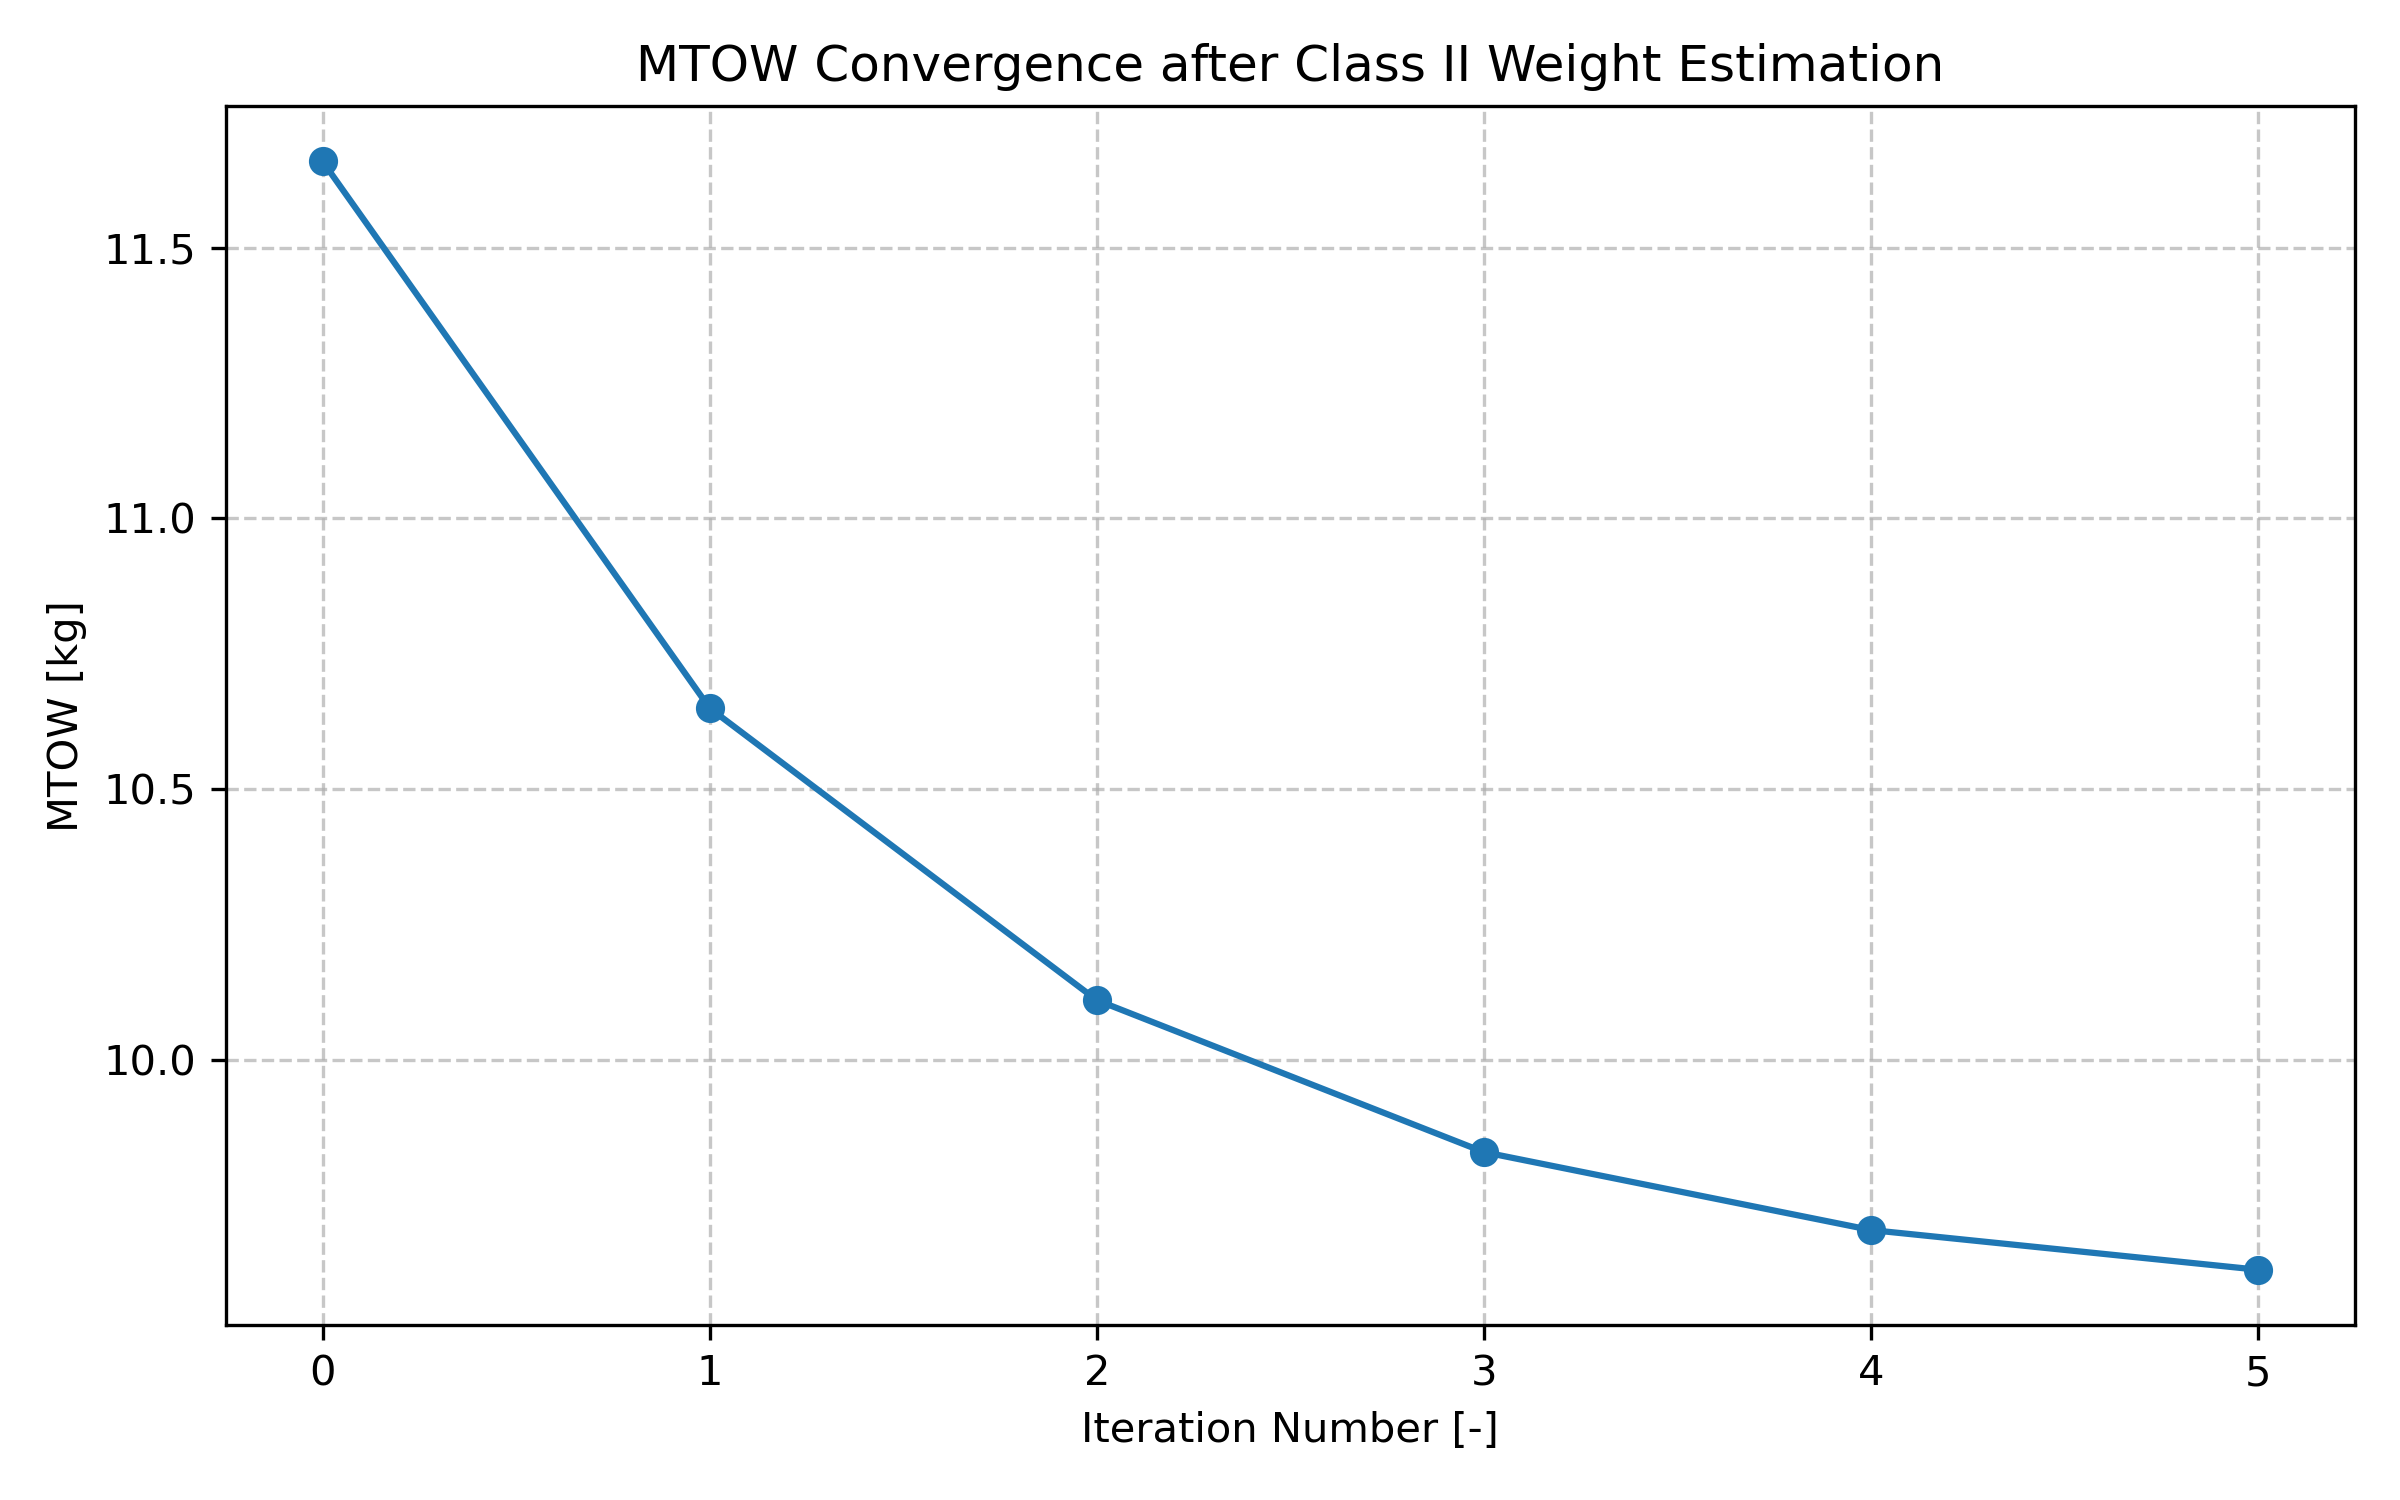
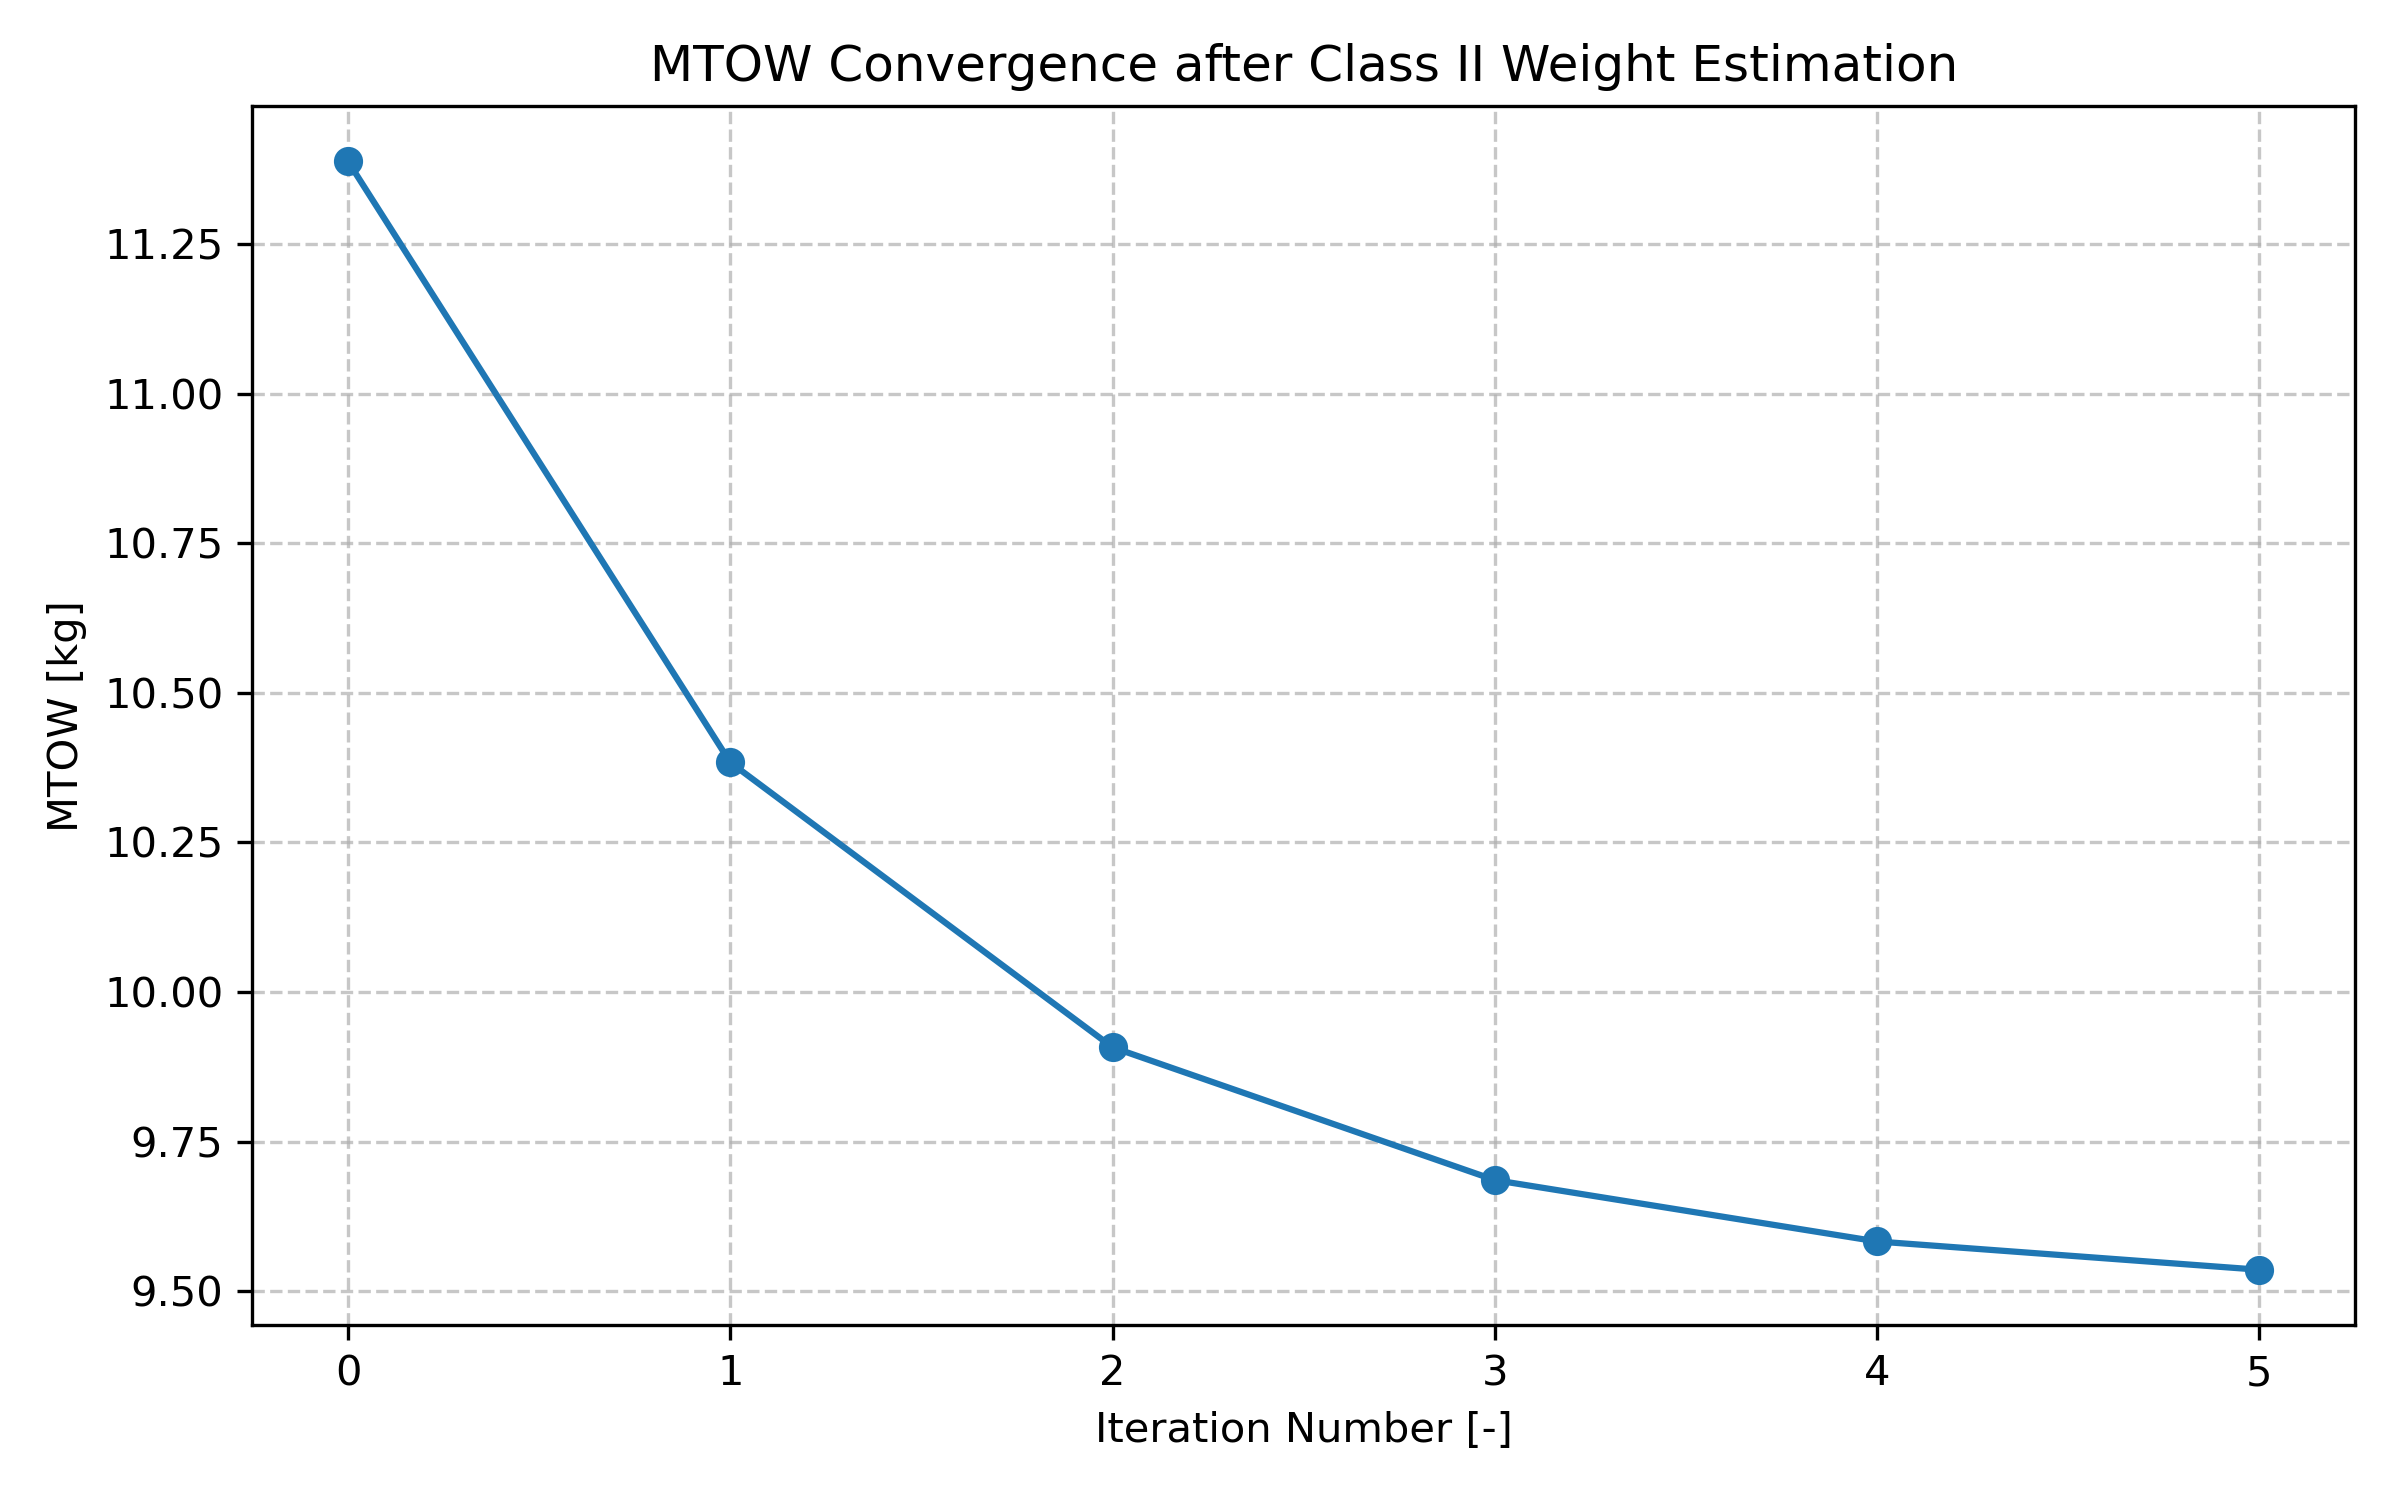
successful implementation of the transition phase

diff --git a/prelim_des/performance.py b/prelim_des/performance.py
@@ -98,7 +98,18 @@ class Performance:
         )  # Energy required for cruise
 
         return energy_cruise
+    
+    def transition_energy(self, current_mass):
+        """
+        Calculate the energy required for the transition phase.
+        This is a hardcoded function and its results should be carefully considered based on drone characteristics.
+        """
+        default_transition_energy = toml["config"]["mission"]["transition_energy"] # for MTOW = 10 kg
+        default_transition_MTOW = toml["config"]["mission"]["default_transition_MTOW"]  # MTOW for which the default energy is defined
+        transition_energy = default_transition_energy * float(current_mass) / default_transition_MTOW
 
+        return transition_energy  # Energy required for transition phase in Joules
+    
     def cruise_range(self, energy):
         """
         Calculate the range during cruise based on available energy.
@@ -116,7 +127,7 @@ class Performance:
         )
         return range_cruise
 
-    def leg_energy(self, leg):
+    def leg_energy(self, leg, transition):
         """
         Calculate the energy required for a single leg of the mission.
         """
@@ -129,26 +140,35 @@ class Performance:
 
         takeoff_thrust = self.takeoff_thrust(self.drone.OEW + PL_mass, leg["TO_speed"], use_T_over_W=False)
         takeoff_power = self.drone.propulsion.ver_prop.power(takeoff_thrust)
-        take_off_energy = takeoff_power * (leg["TO_time"])
 
         landing_thrust = self.landing_thrust(self.drone.OEW + PL_mass, leg["LD_speed"], use_T_over_W=False)
         landing_power = self.drone.propulsion.ver_prop.power(landing_thrust)
-        landing_energy = landing_power * (leg["LD_time"])
 
         hover_thrust = self.hover_thrust(self.drone.OEW + PL_mass)
         hover_power = self.drone.propulsion.ver_prop.power(hover_thrust)
+        
+        if transition:
+            take_off_energy = takeoff_power * (leg["TO_time_w_trans"])
+            landing_energy = landing_power * (leg["LD_time_w_trans"])
+            transition_energy = self.transition_energy(self.drone.OEW + PL_mass) * 2  # Assuming transition happens both at takeoff and landing
+        else:
+            take_off_energy = takeoff_power * (leg["TO_time"])
+            landing_energy = landing_power * (leg["LD_time"])
+            transition_energy = 0.0  # No transition energy if not transitioning
+        
         hover_energy = hover_power * leg["loitering_time"]
 
-        leg_energy = cruise_energy + take_off_energy + landing_energy + hover_energy
+        leg_energy = cruise_energy + take_off_energy + landing_energy + hover_energy + transition_energy
         print(f"Energy breakdown: Cruise Energy: {cruise_energy[0]:.2f} J, "
               f"Takeoff Energy: {take_off_energy[0]:.2f} J, "
               f"Landing Energy: {landing_energy[0]:.2f} J, "
+              f"Transition Energy: {transition_energy:.2f} J, "
               f"Hover Energy: {hover_energy[0]:.2f} J",
               f"Leg Mass: {self.drone.OEW + PL_mass} kg")
 
         return leg_energy, cruise_power, takeoff_power, landing_power, hover_power
 
-    def mission_energy(self):
+    def mission_energy(self, transition=False):
         """
         Calculate the total energy required for the mission.
         """
@@ -157,7 +177,7 @@ class Performance:
 
             try:
                 leg_energy, cruise_power, takeoff_power, landing_power, hover_power = (
-                    self.leg_energy(leg)
+                    self.leg_energy(leg, transition)
                 )
                 mission_energy += leg_energy
                 # Store or process the energy and power values as needed

diff --git a/prelim_des/drone.py b/prelim_des/drone.py
@@ -54,7 +54,7 @@ class Drone:
             )
         return self.MTOW, self.OEW
 
-    def class_2_weight_estimate(self):
+    def class_2_weight_estimate(self, transition=False):
         """
         Estimate the weight of the drone using a class 2 weight estimate.
         """
@@ -66,7 +66,7 @@ class Drone:
                 "Wing area (S) must be defined before performing class 2 weight estimate."
             )
 
-        mission_energy = self.perf.mission_energy()
+        mission_energy = self.perf.mission_energy(transition)
         self.OEW = (
             self.wing.weight()
             + self.fuselage.weight()
@@ -110,7 +110,7 @@ class Drone:
 
         return self.MTOW, self.OEW
 
-    def iterative_weight_estimate(self, max_iterations=100, tolerance=0.01, plot=False):
+    def iterative_weight_estimate(self, transition=False, max_iterations=100, tolerance=0.01, plot=False):
         """
         Perform an iterative weight estimate until convergence.
         """
@@ -126,7 +126,7 @@ class Drone:
         S_history = [self.wing.S]
         for i in range(max_iterations):
             MTOW_prev = self.MTOW
-            self.class_2_weight_estimate()
+            self.class_2_weight_estimate(transition)
             mtow_history.append(self.MTOW)
             self.wing.S = self.perf.wing_area(self.MTOW)
             S_history.append(self.wing.S)

diff --git a/prelim_des/main_weight_estimation.py b/prelim_des/main_weight_estimation.py
@@ -24,15 +24,15 @@ print("Drone OEW:", drone.OEW)
 drone.wing.S = perf.wing_area(drone.OEW)
 # print("Wing area (S):", drone.wing.S)
 
-drone.class_2_weight_estimate()
+drone.class_2_weight_estimate(transition=True)
 # print("Drone MTOW after class 2 estimate:", drone.MTOW)
 # print("Drone OEW after class 2 estimate:", drone.OEW)
 
-drone.iterative_weight_estimate(plot=True, tolerance=0.01)
-# print("Drone MTOW after iterative estimate:", drone.MTOW)
+drone.iterative_weight_estimate(transition=True, plot=True, tolerance=0.01)
+print("Drone MTOW after iterative estimate:", drone.MTOW)
 # print(f"Wing surface area: {drone.wing.S}")
 
-drone.wing.plot_planform(save_plot=True)
+# drone.wing.plot_planform(save_plot=True)
 # print(f"Aspect ratio: {drone.wing.geom_AR}")
 # print(f"Mean aerodynamic chord (MAC): {drone.wing.MAC}")
 

diff --git a/prelim_des/mission.py b/prelim_des/mission.py
@@ -31,6 +31,9 @@ class MissionPhase:
             toml["config"]["mission"]["cruise_height"]
         ),
         cruise_speed: float = toml["config"]["mission"]["cruise_speed"],
+        transition_h: float = ImperialConverter.len_ft_m(
+            toml["config"]["mission"]["transition_height"]
+        ),
     ):
         logging.debug("Initializing MissionPhase class...")
 
@@ -42,9 +45,12 @@ class MissionPhase:
         self.LD_speed = LD_speed
         self.distance = distance
         self.cruise_h = cruise_h
+        self.transition_h = transition_h
         self.cruise_speed = cruise_speed
         self.TO_time = cruise_h / TO_speed
         self.LD_time = cruise_h / LD_speed
+        self.TO_time_w_trans = transition_h / TO_speed
+        self.LD_time_w_trans = transition_h / LD_speed
 
 
 class Mission:
